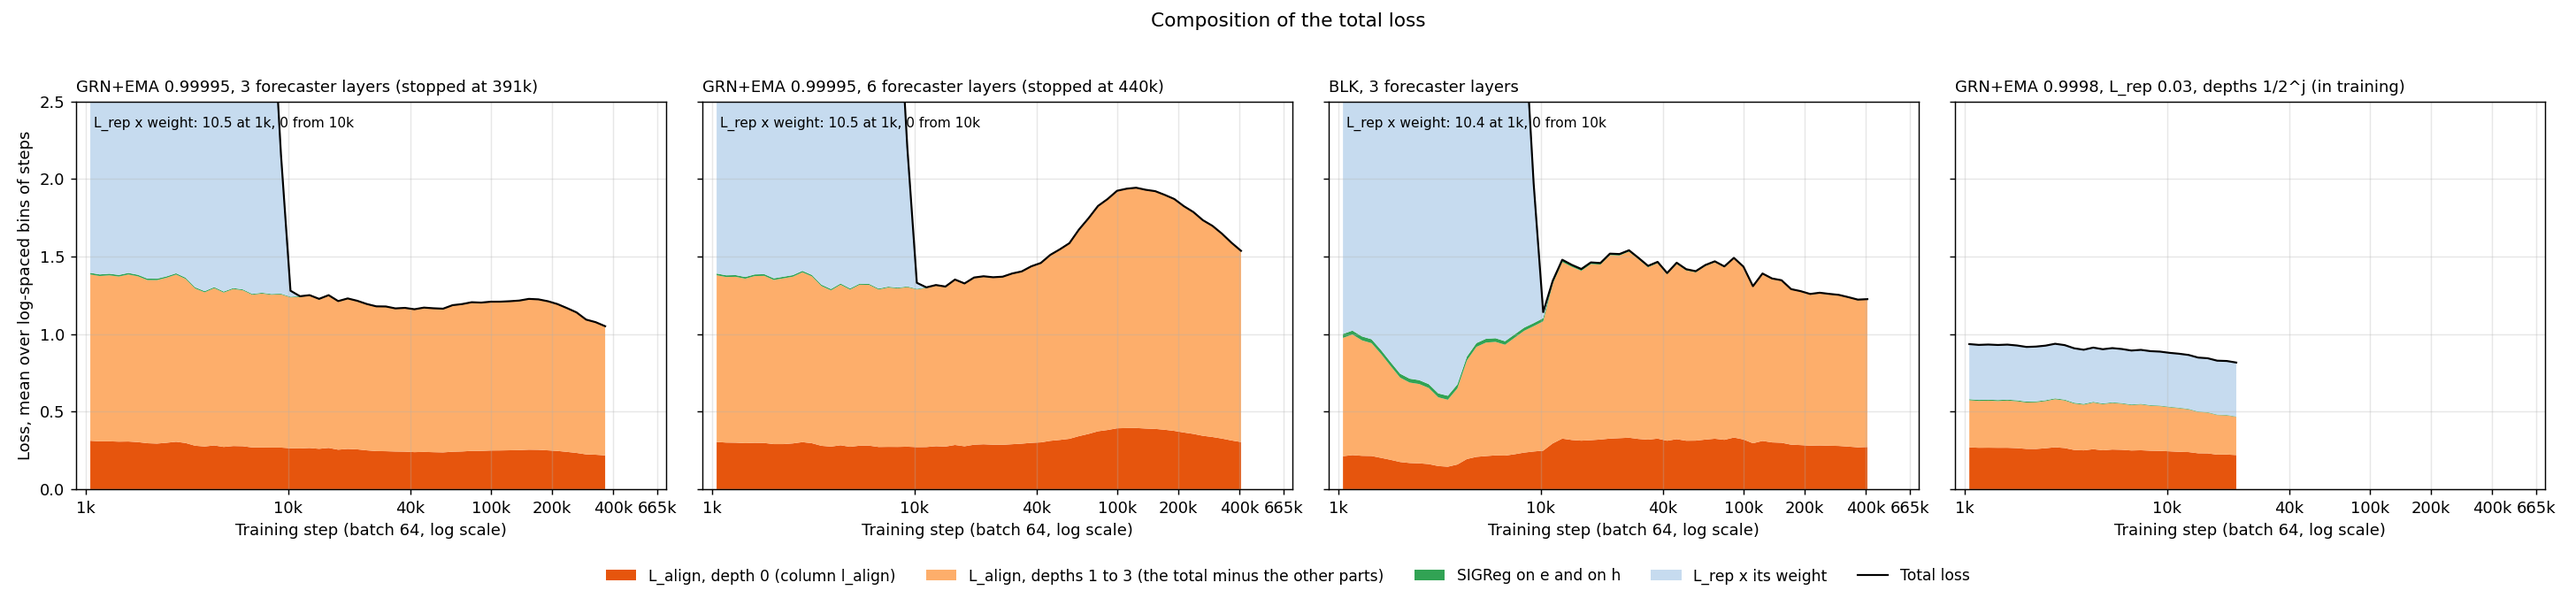
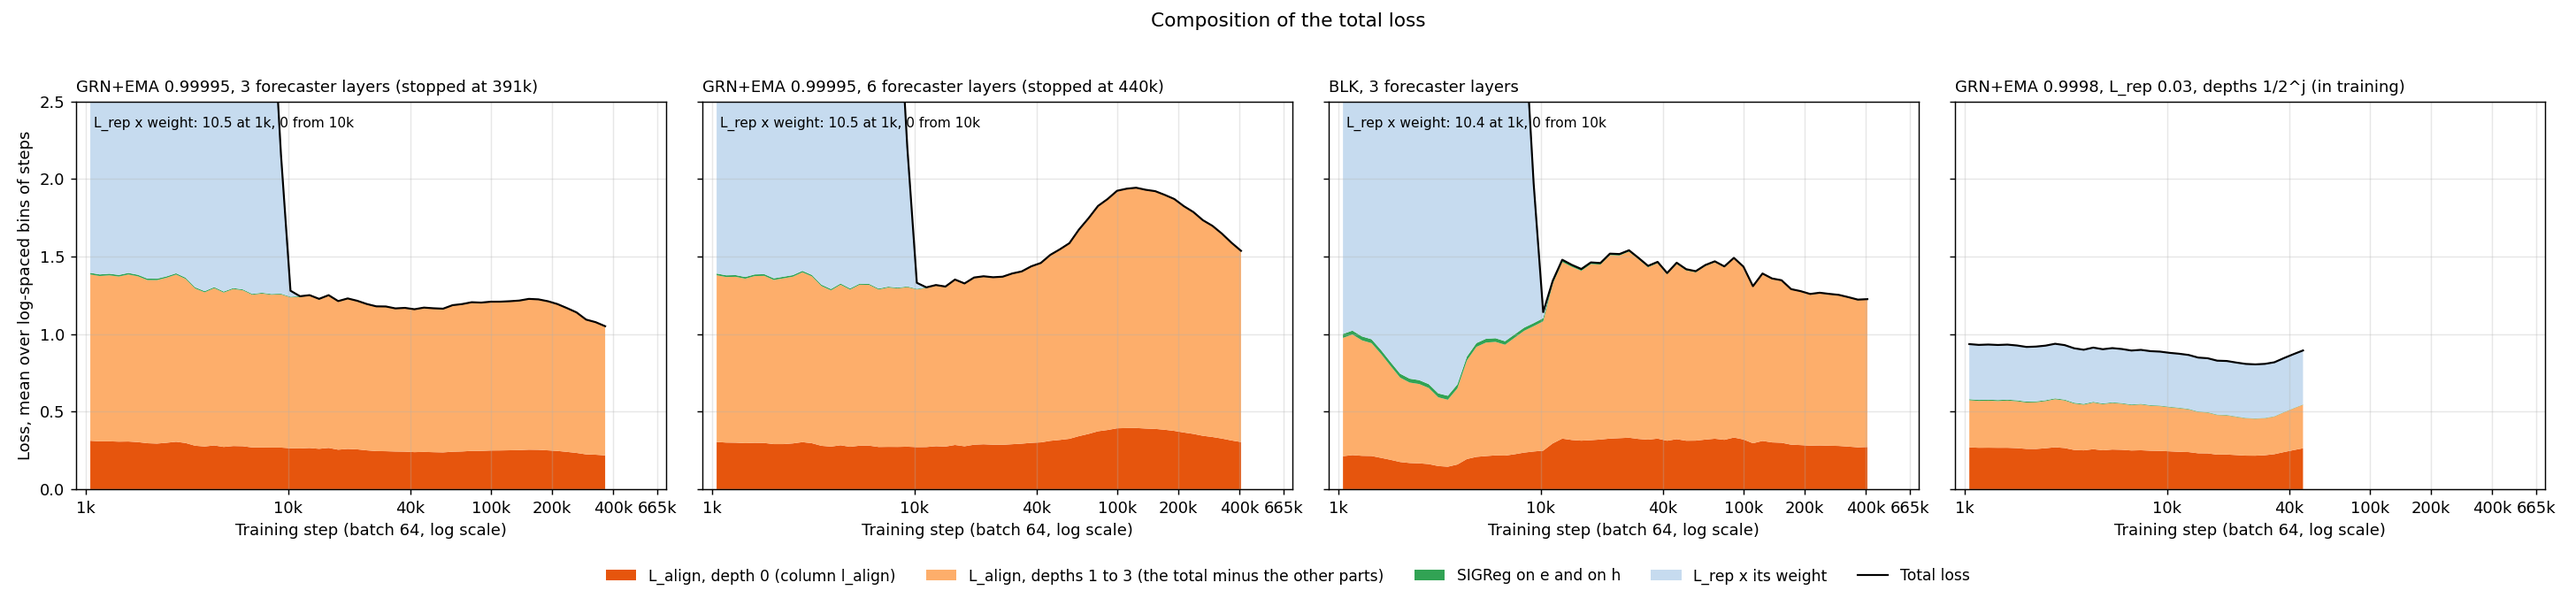
Report: the loss composition of grn_ema09998_rep003_halving to 47k

Changed region(s): [[0.8438, 0.5902, 0.9062, 0.8388]]

diff --git a/reports/2026-10-10_frequency_family_head/frequency_family_head.md b/reports/2026-10-10_frequency_family_head/frequency_family_head.md
@@ -28,7 +28,7 @@ At batch 64, the half-life starts at 5.5k steps for I-JEPA and at 16.6k steps fo
 ![Parts of the total loss of magenta, grey, BLK and the run with L_rep 0.03 and the depth weights 1/2^j](plots/loss_composition_099995.png)
 
 From 11k, L_align at depths 1 to 3 is 77% to 80% of the total loss of magenta, grey and BLK.
-For the run with L_rep 0.03 and the depth weights 1/2^j, this part is 30% to 32% from 11k to 22k.
+For the run with L_rep 0.03 and the depth weights 1/2^j, this part is 29% to 32% from 11k to 47k.
 The total loss of magenta decreases from 1.24 at 11k to 1.05 at 366k, and grey has its maximum, 1.94, at 124k.
 
 ## Loss terms
